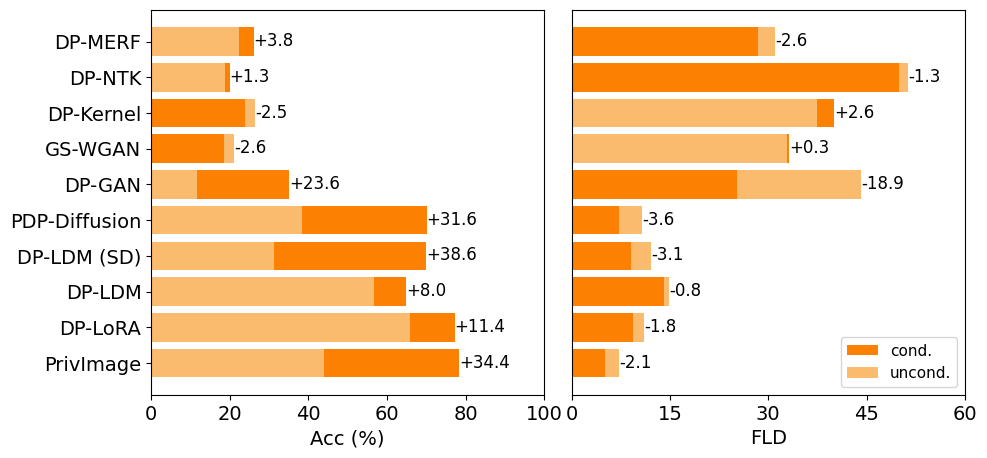
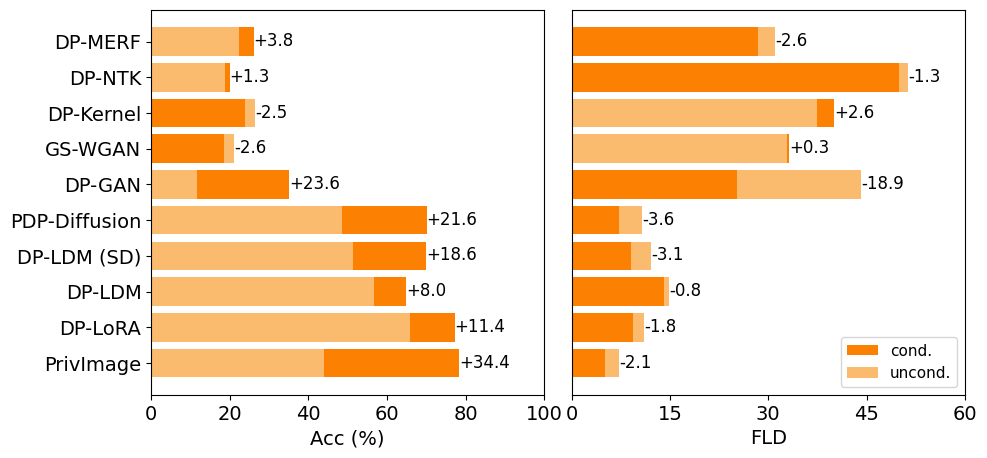
doc: edit rq2

Changed region(s): [[0.2736, 0.4279, 0.3647, 0.6114], [0.4255, 0.4585, 0.4559, 0.4891]]

diff --git a/models/dpsgd_lora_sc.py b/models/dpsgd_lora_sc.py
@@ -33,6 +33,10 @@ class DP_LORA(DPSynther):
         self.config = config
         self.device = 'cuda:%d' % self.local_rank
 
+        self.private_num_classes = config.model.private_num_classes  # Number of private classes
+        self.public_num_classes = config.model.public_num_classes  # Number of public classes
+        self.label_dim = max(self.private_num_classes, self.public_num_classes)
+
         self.is_pretrain = True
     
     def pretrain(self, public_dataloader, config):
@@ -116,6 +120,7 @@ class DP_LORA(DPSynther):
             '--logdir', logdir, 
             '--base', config_path, 
             '--gpus', gpu_ids, 
+            'model.params.cond_stage_config.params.n_classes={}'.format(self.label_dim+1),
             'data.params.cond={}'.format(self.config.pretrain.cond),
             'data.params.train.target={}'.format(data_target),
             'data.params.validation.target={}'.format(data_target),
@@ -164,11 +169,11 @@ class DP_LORA(DPSynther):
             '--base', config_path, 
             '--gpus', gpu_ids, 
             '--accelerator', 'gpu', 
+            'model.params.cond_stage_config.params.n_classes={}'.format(self.label_dim+1),
             'model.params.unet_config.params.attention_resolutions={}'.format([2**i for i in range(len(self.config.model.network.attn_resolutions))]),
             'model.params.unet_config.params.channel_mult={}'.format(self.config.model.network.ch_mult),
             'model.params.unet_config.params.model_channels={}'.format(self.config.model.network.nf),
             'model.params.output_file={}'.format(os.path.join(os.path.dirname(config.log_dir), 'stdout.txt')),
-            'model.params.cond_stage_config.params.n_classes={}'.format(self.config.sensitive_data.n_classes),
             'model.params.ckpt_path={}'.format(pretrain_model), 
             'model.params.dp_config.epsilon={}'.format(config.dp.epsilon), 
             'model.params.dp_config.delta={}'.format(config.dp.delta), 

diff --git a/models/dpsgd_ldm_sc.py b/models/dpsgd_ldm_sc.py
@@ -33,6 +33,10 @@ class DP_LDM(DPSynther):
         self.config = config
         self.device = 'cuda:%d' % self.local_rank
 
+        self.private_num_classes = config.model.private_num_classes  # Number of private classes
+        self.public_num_classes = config.model.public_num_classes  # Number of public classes
+        self.label_dim = max(self.private_num_classes, self.public_num_classes)
+
         self.is_pretrain = True
     
     def pretrain(self, public_dataloader, config):
@@ -124,6 +128,7 @@ class DP_LDM(DPSynther):
             '--logdir', logdir, 
             '--base', config_path, 
             '--gpus', gpu_ids, 
+            'model.params.cond_stage_config.params.n_classes={}'.format(self.label_dim+1),
             'data.params.cond={}'.format(self.config.pretrain.cond),
             'data.params.train.target={}'.format(data_target),
             'data.params.validation.target={}'.format(data_target),
@@ -174,6 +179,7 @@ class DP_LDM(DPSynther):
             '--base', config_path, 
             '--gpus', gpu_ids, 
             '--accelerator', 'gpu', 
+            'model.params.cond_stage_config.params.n_classes={}'.format(self.label_dim+1),
             'model.params.unet_config.params.attention_resolutions={}'.format([2**i for i in range(len(self.config.model.network.attn_resolutions))]),
             'model.params.unet_config.params.channel_mult={}'.format(self.config.model.network.ch_mult),
             'model.params.unet_config.params.model_channels={}'.format(self.config.model.network.nf),

diff --git a/plot/plot_wo_pretrain_cond_cifar10.py b/plot/plot_wo_pretrain_cond_cifar10.py
@@ -91,7 +91,7 @@ fig.clf()
 axs = fig.subplots(1, 2)
 
 accs_condi = np.array([26.1, 20.0, 24.0, 18.5, 35.2, 70.1, 69.9, 64.8, 77.2, 78.4])
-accs_uncondi = np.array([22.3, 18.7, 26.5, 21.1, 11.6, 38.5, 31.3, 56.8, 65.8, 44.0])
+accs_uncondi = np.array([22.3, 18.7, 26.5, 21.1, 11.6, 48.5, 51.3, 56.8, 65.8, 44.0])
 
 flds_condi = np.array([28.4, 50.0, 40.0, 33.2, 25.3, 7.2, 9.0, 14.1, 9.3, 5.1])
 flds_uncondi = np.array([31.0, 51.3, 37.4, 32.9, 44.2, 10.8, 12.1, 14.9, 11.1, 7.2])
